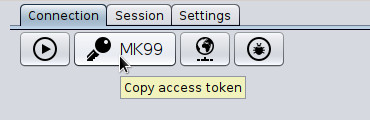
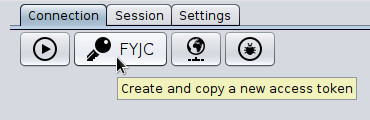
Update docu

Changed region(s): [[0.2973, 0.25, 0.9811, 0.85]]

diff --git a/docs/index.html b/docs/index.html
@@ -86,21 +86,18 @@
         </p>
       </div>
 
-      <h2>Status (15)</h2>
+      <h2>Status (16)</h2>
       <p>
-        Since release 1.9 (Promiscuous Potato), a portable "quick launch"
-        version is available in addition to the conventional installation
-        program. There are two separate "quick launch" Windows binaries, one
-        for the assisted and one the assistant. They are called "quick
-        launch", because they allow the assisted or assistant part to be run
-        without prior installation (require the presence of an JRE, however).
-        They are 100% compatible with the conventional Dayon! Versions.
-        Since release 12 (Adorable Asteroid), similar portable versions are
-        available for Linux as well. Since release 15 (Dolly Double) the remote desktop can also be viewed in colors.
+        Since release 16 (Eager Eagle), the connection is automatically inverted if the port cannot be reached by the assistant.
+        From version 15 (Dolly Double), the remote desktop can also be transferred in colour.
+        Since version 12 (Adorable Asteroid), there are also portable versions for Linux, similar to the quick start versions
+        that have been available for Windows for some time.<br/>
+        These consist of two separate files - one for the assisted and one for the assistant.
+        They are called ‘Quickstart’ because they can be used to start the assisted or the assistant directly without prior installation
+        (restriction under Windows: a JRE is required). They are 100% compatible with the conventional Dayon!
         <br/><br/>
-        Due to the lack of Apple hardware, the clipboard transfer feature
-        could only be tested with Windows 10 and 11, Debian and Ubuntu - Feedback
-        from macOS users would be very welcome!
+        Due to the lack of Apple hardware, the clipboard transfer feature could only be tested with Windows 10 and 11,
+        Debian and Ubuntu - Feedback from macOS users would be very welcome!
       </p>
 
       <h2>Rational</h2>

diff --git a/docs/fr_index.html b/docs/fr_index.html
@@ -91,16 +91,14 @@
 
       <h2>Status (15)</h2>
       <p>
-        Depuis la version 1.9 (Promiscuous Potato), une version portable
-        "lancement rapide" est disponible en plus du programme
-        d'installation classique. Il existe deux binaires Windows "quick
-        launch" distincts, un pour l'assistée et un pour l'assistant. Ils sont
-        appelés "lancement rapide", car ils permettent de lancer la partie
-        assistée ou assistante sans installation (ils nécessitent cependant la présence d'un JRE).
-        Ils sont 100% compatibles avec les versions classiques de Dayon!.
-        Depuis la version 12 (Adorable Asteroid), des versions portables similaires
-        sont également disponibles pour Linux.
-        Depuis la version 15 (Dolly Double) le bureau distant peut aussi être transmis en couleur.
+        Depuis la version 16 (Eager Eagle), la connexion est automatiquement inversée si le port ne peut être atteint par l'assistant.
+        Depuis la version 15 (Dolly Double), le bureau à distance peut également être transféré en couleur.
+        Depuis la version 12 (Adorable Asteroid), il existe également des versions portables pour Linux, similaires aux
+        versions de lancement rapide qui sont disponibles pour Windows depuis un certain temps.<br/>
+        Ces versions se composent de deux fichiers distincts, l'un pour l'utilisateur assisté et l'autre pour l'assistant.
+        Elles sont appelées 'lancement rapide' parce qu'elles peuvent être utilisées pour démarrer l'utilisateur assisté
+        ou l'assistant directement sans installation préalable. (restriction sous Windows : un JRE est nécessaire).
+        Ils sont 100% compatibles avec la version conventionnelle de Dayon !
         <br/><br/>
         En raison du manque de matériel, je n'ai pu tester la fonction de
         transfert du presse-papiers que sous Windows 10 et 11, Debian et Ubuntu. Les

diff --git a/docs/sv_index.html b/docs/sv_index.html
@@ -80,14 +80,16 @@
           arbeta med de olika menyerna och ikonerna liksom att hantera hjälptagarens datorinställningar, osv...</p>
       </div>
 
-      <h2>Status (15)</h2>
+      <h2>Status (16)</h2>
       <p>
-        Sedan version 1.9 (Promiscuous Potato) finns, utöver det konventionella installationsprogrammet,
-        en portabel "snabbstartsversion" tillgänglig. I Windows är det två separata "snabbstartsversioner",
-        en för hjälpgivaren och en för hjälpmottagaren. De kallas "snabb" eftersom de kan köras utan att installeras
-        först (kräver dock närvaro av en JRE). De är 100% kompatibla med övriga konventionella Dayon! Versioner.
-        Sedan version 12 (Adorable Asteroid) finns motsvarande portabla versioner även för Linux.
-        Sedan Release 15 (Dolly Double) kan fjärrskrivbordet även sändas i färg.
+        Sedan version 16 (Eager Eagle) inverteras anslutningen automatiskt om porten inte kan nås av hjälpmottagaren.
+        Från och med version 15 (Dolly Double) kan fjärrskrivbordet även sändas i färg.
+        Sedan version 12 (Adorable Asteroid) finns det även portabla versioner för Linux, liknande de "snabbstartsversioner"
+        som sedan en tid tillbaka finns för Windows.<br/>
+        Dessa versioner består av två separata filer, en för hjälpgivaren och en för hjälpmottagaren.
+        De kallas ”snabb” eftersom de kan användas för att starta assistenten eller assistenten direkt utan föregående installation.
+        (Begränsning under Windows: kräver dock närvaro av en JRE).
+        De är 100% kompatibla med övriga konventionella Dayon! Versioner.
         <br/><br/>
         På grund av bristen på Apple-hårdvara kunde funktionen för överföring av urklipp
         endast testas med Windows 10 och 11, Debian och Ubuntu - Feedback från

diff --git a/docs/de_index.html b/docs/de_index.html
@@ -87,18 +87,15 @@
         </p>
       </div>
 
-      <h2>Status (15)</h2>
+      <h2>Status (16)</h2>
       <p>
-        Seit Release 1.9 (Promiscuous Potato) existiert nebst den
-        konventionellen Installationspaketen eine portable "quick launch"
-        Version. Diese ausschliesslich für Windows verfügbare "quick launch"
-        Version besteht aus zwei separaten Dateien - je eine für den
-        Assistenten und eine für den Assisterten. Sie heissen "quick launch",
-        weil man damit den Assistenten oder den Assistierten unter Windows
-        ohne vorgängige Installation direkt starten kann (erfordern allerdings das Vorhandensein einer JRE).
-        Sie sind 100%ig kompatibel zu den konventionellen Dayon! Versionen.
-        Seit Release 12 (Adorable Asteroid) existieren ähnliche portable Versionen auch für Linux.
+        Ab Release 16 (Eager Eagle) wird der Verbindungsaufbau automatisch invertiert, falls der Port vom Assistent nicht erreichbar ist.
         Seit Release 15 (Dolly Double) kann der Remote-Desktop auch in Farbe übertragen werden.
+        Ab Release 12 (Adorable Asteroid) existieren auch für Linux portable Versionen, ähnlich wie die bereits seit längerem für Windows
+        verfügbaren "quick launch" Versionen.<br/>
+        Diese bestehen aus zwei separaten Dateien - je eine für den Assistenten und eine für den Assisterten. Sie heissen "quick launch",
+        weil man damit den Assistenten oder den Assistierten ohne vorgängige Installation direkt starten kann
+        (Einschränkung unter Windows: Es muss eine JRE installiert sein). Sie sind 100%ig kompatibel zu den konventionellen Dayon! Versionen.
         <br/><br/>
         Mangels entsprechender Hardware konnte ich die Funktion zur
         Übertragung der Zwischenablage bloss mit Windows 10 und 11, Debian und Ubuntu

diff --git a/docs/zh_index.html b/docs/zh_index.html
@@ -78,10 +78,12 @@
       </div>
       <h2>状态 (15)</h2>
       <p>
-        &nbsp; &nbsp; 自版本 1.9（Promisceous Potato）开始，除常规安装程序外，我们还提供了便携式“快速启动”版本。有两个独立的 “快速启动” Windows 二进制文件，
-        一个用户端（assisted），一个主控端（assistant）。之所以称为 “快速启动” 是因为它们无需安装即可运行（但是需要 JRE ）。它们与常规的 Dayon 100% 兼容！
-        版本。自版本 12（Adorable Asteroid）开始，类似的便携式版本也可用于 Linux 平台。
-        自第 15 版（Dolly Double）起，远程桌面还可以真彩色显示！
+        &nbsp; &nbsp; 从第 16 版（Eager Eagle）开始，如果助手无法连接到端口，连接会自动反转。
+        从第 15 版（Dolly Double）开始，远程桌面还可以彩色传输。
+        从第 12 版（Adorable Asteroid）开始，Linux 下也有了便携版本，与 Windows 下的快速启动版本类似。
+        这些版本由两个独立文件组成，一个用于辅助用户，另一个用于助手。之所以称它们为 “快速启动”，是因为它们无需事先安装即可直接启动辅助程序或助手程序。
+        (在 Windows 下的限制：需要 JRE）。
+        它们与传统的 Dayon 完全兼容！
         <br/><br/>
         &nbsp; &nbsp; 由于缺乏 Apple 设备，剪贴板传输功能仅在 Windows 10 和 11、Debian 和 Ubuntu 上进行了测试 - 非常欢迎 macOS 用户的反馈！
       </p>

diff --git a/docs/de_quickstart.html b/docs/de_quickstart.html
@@ -89,8 +89,7 @@
       </p>
 
       <p>
-        <strong>Optional:</strong> Port für eingehende Verbindungen anpassen: (links mit aktiviertem UPnP, rechts
-        ohne)
+        <strong>Optional:</strong> Port für eingehende Verbindungen anpassen: (links mit aktiviertem UPnP, rechts ohne)
       </p>
 
       <p>
@@ -101,24 +100,17 @@
       <h3>Token generieren und kopieren</h3>
 
       <p>
-        Generieren Sie als Nächstes mittels Mausklick auf den Schlüssel ein Zugangstoken:
+        Generieren Sie als Nächstes mittels Mausklick auf den Schlüssel ein Zugangstoken. Sobald der Token ersichtlich wird, befindet er sich bereits in der Zwischenablage.
+        (jeder Mausklick erzeugt ein neues Token)
       </p>
 
       <p>
         <img src="assistant_create_token.jpg" alt="Dayon! Assistent: Token erstellen"/>
-      </p>
-
-      <p>
-        Kopieren Sie das generierte Token mittels Mausklick in die Zwischenablage:
-      </p>
-
-      <p>
         <img src="assistant_copy_token.jpg" alt="Dayon! Assistent: Token kopieren"/>
       </p>
 
       <p>
-        Das wär's bereits - teilen Sie dieses <strong>Token</strong> dem <em>Assistierten</em> via Mail, IM oder
-        Telefon mit.
+        Das wär's bereits - teilen Sie dieses <strong>Token</strong> dem <em>Assistierten</em> via Mail, IM oder Telefon mit.
       </p>
 
       <p>

diff --git a/docs/zh_quickstart.html b/docs/zh_quickstart.html
@@ -127,18 +127,12 @@
         <h3>生成并复制访问令牌</h3>
 
         <p>
-            &nbsp; &nbsp; 通过单击密钥图标的按钮生成访问令牌：
+            &nbsp; &nbsp; 通过单击密钥图标的按钮生成访问令牌。生成的令牌一出现在屏幕上，就会被直接复制到剪贴板上。
+            (每次点击鼠标都会生成一个新的令牌）
         </p>
 
         <p>
             <img src="assistant_create_token.jpg" alt="Dayon! Assistant: Create Token"/>
-        </p>
-
-        <p>
-            &nbsp; &nbsp; 再次单击鼠标将生成的访问令牌复制到剪贴板：
-        </p>
-
-        <p>
             <img src="assistant_copy_token.jpg" alt="Dayon! Assistant: Copy Token"/>
         </p>
 

diff --git a/docs/fr_quickstart.html b/docs/fr_quickstart.html
@@ -94,18 +94,12 @@
       <h3>Générer et copier des jetons</h3>
 
       <p>
-        Générez un jeton d'accès en cliquant sur la clé :
+        Générez un jeton d'accès en cliquant sur la clé. Dès que le jeton est visible, il se trouve déjà dans le presse-papier.
+        (chaque clic de souris crée un nouveau jeton)
       </p>
 
       <p>
         <img src="assistant_create_token.jpg" alt="Dayon! Assistant : Create Token"/>
-      </p>
-
-      <p>
-        Copiez le code d'accès généré dans le presse-papiers d'un simple clic de souris :
-      </p>
-
-      <p>
         <img src="assistant_copy_token.jpg" alt="Dayon! Assistant : Copy Token"/>
       </p>
 

diff --git a/docs/quickstart.html b/docs/quickstart.html
@@ -100,18 +100,12 @@
       <h3>Generate and copy token</h3>
 
       <p>
-        Generate an access token by clicking on the key:
+        Generate an access token by clicking on the key. The generated token is directly copied to the clipboard, as soon it appears on the screen.
+        (each mouse click generates a new token)
       </p>
 
       <p>
         <img src="assistant_create_token.jpg" alt="Dayon! Assistant: Create Token"/>
-      </p>
-
-      <p>
-        Copy the generated access token to the clipboard with a click of the mouse:
-      </p>
-
-      <p>
         <img src="assistant_copy_token.jpg" alt="Dayon! Assistant: Copy Token"/>
       </p>
 

diff --git a/docs/sv_quickstart.html b/docs/sv_quickstart.html
@@ -90,18 +90,12 @@
       </p>
 
       <p>
-        Skapa en anslutningsnyckel genom att klicka på nyckeln:
+        Skapa en anslutningsnyckel genom att klicka på nyckeln. Så snart anslutningsnyckel blir synlig finns den redan i urklipp.
+        (varje musklick skapar en ny anslutningsnyckel)
       </p>
 
       <p>
         <img src="assistant_create_token.jpg" alt="Dayon! Hjälpgivare: Skapa anslutningsnyckel"/>
-      </p>
-
-      <p>
-        Kopiera den skapade anslutningsnyckeln till urklipp med ett musklick:
-      </p>
-
-      <p>
         <img src="assistant_copy_token.jpg" alt="Dayon! Hjälpgivare: Kopiera anslutningsnyckel"/>
       </p>
 

diff --git a/docs/sv_download.html b/docs/sv_download.html
@@ -128,6 +128,13 @@
 
       <h2 id="change-log">Ändringslogg</h2>
       <h3>
+        Dayon! v16 Eager Eagle (11 februari 2025)
+      </h3>
+      <ul>
+        <li>Automatisk reversering av anslutningen om hjälpgivaren inte kan nås via Internet</li>
+      </ul>
+
+      <h3>
         Dayon! v15 Dolly Double (18 november 2024)
       </h3>
       <ul>
@@ -205,7 +212,7 @@
       </ul>
 
       <h3>
-        Dayon! v1.7 Tesler (21 februari  2019)
+        Dayon! v1.7 Tesler (21 februari 2019)
         <span class="red">*</span>
       </h3>
       <ul>

diff --git a/docs/download.html b/docs/download.html
@@ -138,6 +138,13 @@
 
         <h2 id="change-log">Change log</h2>
         <h3>
+          Dayon! v16 Eager Eagle (February 11th, 2025)
+        </h3>
+        <ul>
+          <li>Automatic reversal of the connection estabishment if the assistant cannot be reached from the Internet</li>
+        </ul>
+
+        <h3>
           Dayon! v15 Dolly Double (November 18th, 2024)
         </h3>
         <ul>
